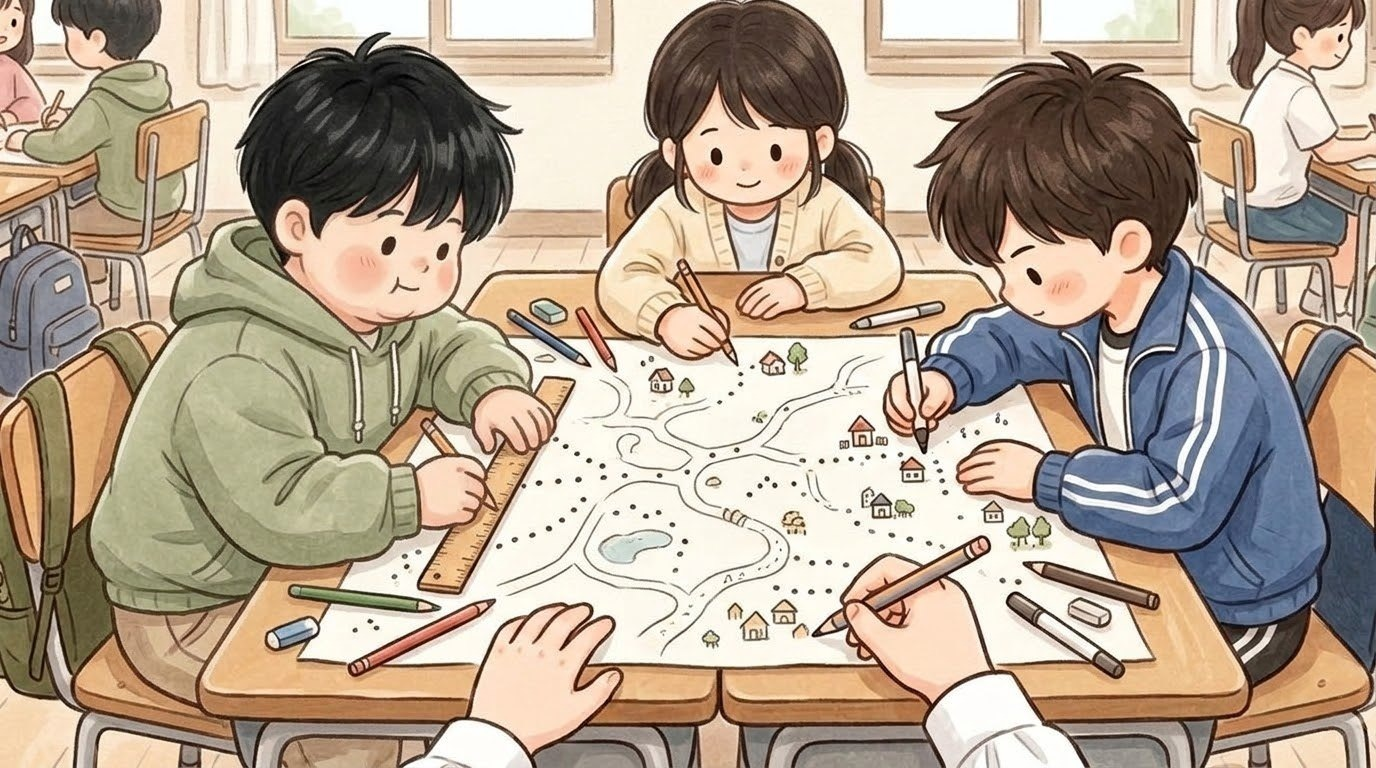
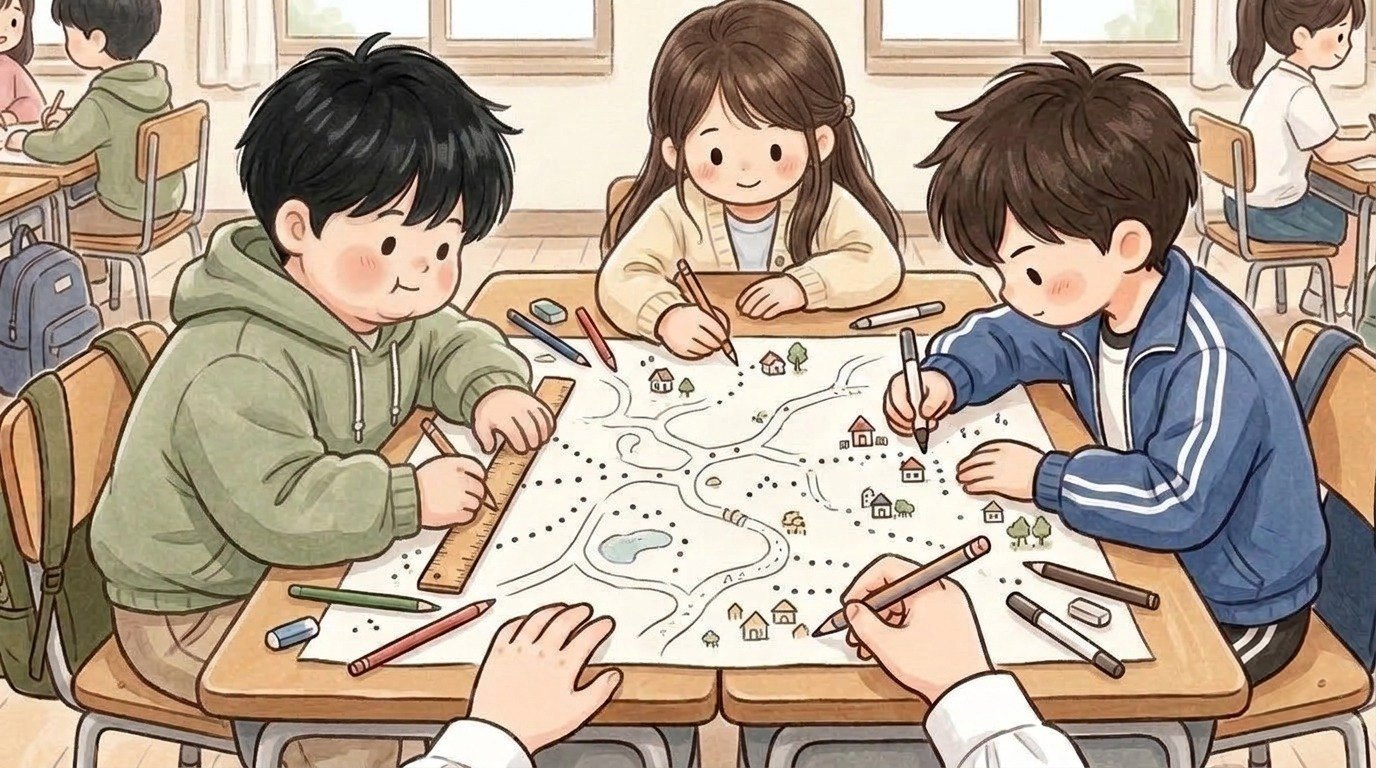
Siwoo, AI review days 8-15: the cicada shell is in the box (meeting 9 A), Junho's jacket is his blue tracksuit and Haeun has her long tied hair and cream cardigan (meeting 10), Siwoo by the pull-up bars shows when the line says so (meeting 11), the whistle lies under the bars and is bigger, the tiss

Changed region(s): [[0.4375, 0.0, 0.6562, 0.375], [0.25, 0.8438, 0.2812, 0.875]]

diff --git a/index.html b/index.html
@@ -119,14 +119,14 @@ body,button{word-break:keep-all;overflow-wrap:break-word}
 <div id="fader"></div>
 <script>
 // same address, newest version: if the page this phone has kept is older than the one online, fetch the new one and reopen
-const BUILD='1107150117';
+const BUILD='1107150450';
 try{fetch(location.pathname,{cache:'no-store'}).then(r=>r.text()).then(t=>{const m=t.match(/const BUILD='(\d+)'/);if(m&&m[1]!==BUILD&&sessionStorage.getItem('upd')!==m[1]){sessionStorage.setItem('upd',m[1]);fetch(location.pathname,{cache:'reload'}).then(()=>location.reload())}}).catch(()=>{})}catch(e){}
 </script>
-<script src="i18n.js?v=1107150117"></script>
-<script src="i18n_prologue_v2.js?v=1107150117"></script>
-<script src="day2/i18n_engine.js?v=1107150117"></script>
-<script src="day2/data.js?v=1107150117"></script>
-<script src="day3/data.js?v=1107150117"></script>
+<script src="i18n.js?v=1107150450"></script>
+<script src="i18n_prologue_v2.js?v=1107150450"></script>
+<script src="day2/i18n_engine.js?v=1107150450"></script>
+<script src="day2/data.js?v=1107150450"></script>
+<script src="day3/data.js?v=1107150450"></script>
 <script>
 // ---------- data ----------
 const MW=1672,MH=941,KID=180;
@@ -569,35 +569,35 @@ function pickHero(){const m=document.getElementById('modal'),c=document.getEleme
  c.innerHTML=`<h2>${tr('전학생 반장되기')}</h2><p>${tr('한국말이 아직 서툰 전학생,<br>반장 선거에 나가다.')}</p><p style="margin-top:14px">${tr('누구로 할까요?')}</p>${(()=>{const s=loadSave();return s&&s.day>=2&&s.mode===UI+'-'+LANG?`<p><button class="big" id="cont">${tr('{n}일차부터 이어 하기').replace('{n}',s.day)}</button></p>`:''})()}<div class="pick heroes"><button data-h="hero_f"><img src="faces/hero_f_smile.jpg" alt="여자 주인공">${heroName(1)}</button><button data-h="hero_m"><img src="faces/hero_m_smile.jpg" alt="남자 주인공">${heroName(0)}</button></div>`;
  m.classList.add('on');{const cb=document.getElementById('cont');if(cb)cb.onclick=()=>{const s=loadSave();HERO=s.hero;Object.assign(HEART,s.heart||{});(s.found||[]).forEach(k=>FOUND.add(k));HEART_D1={...HEART};chime();(typeof contGame==='function'?contGame(s):startDay(Math.min(s.day,Object.keys(window.D3||{}).length?3:2)))}}c.querySelectorAll('.pick button').forEach(b=>b.onclick=()=>{HERO=b.dataset.h;m.classList.remove('on');chime();bgm('day');load('home_am');say([['nar','','이사 온 다음 날 아침. 아직 풀지 못한 상자들이 쌓여 있다.'],['think','sad','(오늘부터 새 학교야. 여기 말도 아직 서툰데…….)'],['think','smile','({m}한테 인사하고 학교 가야지.)']],morning)})}
 </script>
-<script src="day2/engine.js?v=1107150117"></script>
-<script src="day2/ep_minho.js?v=1107150117"></script>
-<script src="day2/meet.js?v=1107150117"></script>
-<script src="day2/ep_sua.js?v=1107150117"></script>
-<script src="day2/ep_hangyeol.js?v=1107150117"></script>
-<script src="day2/ep_siwoo.js?v=1107150117"></script>
-<script src="day2/ep_haram.js?v=1107150117"></script>
-<script src="day2/ep_jiho.js?v=1107150117"></script>
-<script src="day2/ep_hyeeun.js?v=1107150117"></script>
-<script src="day2/ep_haneul.js?v=1107150117"></script>
-<script src="day2/ep_junho.js?v=1107150117"></script>
-<script src="day2/ep_yuna.js?v=1107150117"></script>
-<script src="day2/ep_yena.js?v=1107150117"></script>
-<script src="day2/ep_haeun.js?v=1107150117"></script>
-<script src="day2/ep_youngmin.js?v=1107150117"></script>
-<script src="day2/ep_seah.js?v=1107150117"></script>
-<script src="day2/ep_jihoon.js?v=1107150117"></script>
-<script src="words_ja_ru.js?v=1107150117"></script>
-<script src="day2/mybag.js?v=1107150117"></script>
-<script src="day2/wordpics.js?v=1107150117"></script>
-<script src="day2/spots.js?v=1107150117"></script>
-<script src="day2/textfit.js?v=1107150117"></script>
-<script src="day2/tester.js?v=1107150117"></script>
-<script src="day2/ux.js?v=1107150117"></script>
-<script src="day2/tapword.js?v=1107150117"></script>
-<script src="day2/review.js?v=1107150117"></script>
-<script src="day2/plane.js?v=1107150117"></script>
-<script src="day2/ep_ending.js?v=1107150117"></script>
-<script src="day2/ending.js?v=1107150117"></script>
+<script src="day2/engine.js?v=1107150450"></script>
+<script src="day2/ep_minho.js?v=1107150450"></script>
+<script src="day2/meet.js?v=1107150450"></script>
+<script src="day2/ep_sua.js?v=1107150450"></script>
+<script src="day2/ep_hangyeol.js?v=1107150450"></script>
+<script src="day2/ep_siwoo.js?v=1107150450"></script>
+<script src="day2/ep_haram.js?v=1107150450"></script>
+<script src="day2/ep_jiho.js?v=1107150450"></script>
+<script src="day2/ep_hyeeun.js?v=1107150450"></script>
+<script src="day2/ep_haneul.js?v=1107150450"></script>
+<script src="day2/ep_junho.js?v=1107150450"></script>
+<script src="day2/ep_yuna.js?v=1107150450"></script>
+<script src="day2/ep_yena.js?v=1107150450"></script>
+<script src="day2/ep_haeun.js?v=1107150450"></script>
+<script src="day2/ep_youngmin.js?v=1107150450"></script>
+<script src="day2/ep_seah.js?v=1107150450"></script>
+<script src="day2/ep_jihoon.js?v=1107150450"></script>
+<script src="words_ja_ru.js?v=1107150450"></script>
+<script src="day2/mybag.js?v=1107150450"></script>
+<script src="day2/wordpics.js?v=1107150450"></script>
+<script src="day2/spots.js?v=1107150450"></script>
+<script src="day2/textfit.js?v=1107150450"></script>
+<script src="day2/tester.js?v=1107150450"></script>
+<script src="day2/ux.js?v=1107150450"></script>
+<script src="day2/tapword.js?v=1107150450"></script>
+<script src="day2/review.js?v=1107150450"></script>
+<script src="day2/plane.js?v=1107150450"></script>
+<script src="day2/ep_ending.js?v=1107150450"></script>
+<script src="day2/ending.js?v=1107150450"></script>
 <script>
 // the goal shows big for a few seconds, then folds into a small pill (tap it to open it again)
 {const g=document.getElementById('goal');let t=null;const big=()=>{g.classList.remove('mini');clearTimeout(t);t=setTimeout(()=>g.classList.add('mini'),4000)};

diff --git a/day2/wordpics.js b/day2/wordpics.js
@@ -7,6 +7,7 @@
 // so a scene can name its picture before it is drawn (list: 검수/다시그릴목록_1105.md 「F」).
 const WORDPIC={
  minho_03:{cat:'cat_yellow'},hangyeol_10:{magnet:'magnet_board'},
+ siwoo_08:{mirror:'mirror_wall'},
  hyeeun_05:{box:'milk_crate'},hyeeun_08:{box:'milk_crate'},hyeeun_07:{locker:'locker_grid'},minho_12:{box:'milk_crate'},minho_vote:{box:'ballot_box'},
  haram_09:{card:'card_greeting'},seah_08:{card:'cards_play'},
  hangyeol_08:{umbrella:'umbrella_flower'},minho_08:{umbrella:'umbrella_broken'},
@@ -27,7 +28,7 @@ const WORDPIC={
  hangyeol_01:{thread:'thread_floss'},hangyeol_12:{thread:'thread_floss'}};
 // which of those pictures are really there (a list, not a network probe: a missing file would show as a page error).
 // When a new picture from list F is added, put its name here (items = cut-out .png, cards = card .jpg).
-const PIC_ITEM=new Set(['photo_grandma','locker_grid','stairs_down','magnet_board', 'cat_yellow', 'ballot_box', 'cards_play', 'glue_stick', 'milk_crate', 'paper_crumpled', 'water_bottle_pink', 'water_drops', 'glove_wheel', 'glove_goalie', 'wheel_chair', 'card_greeting', 'ball_dodge', 'ice_pack', 'umbrella_flower', 'umbrella_broken', 'eraser_cloud', 'milk_strawberry', 'bag_gym', 'water_tap', 'notebook_blue', 'notebook_gray', 'thread_floss']),PIC_CARD=new Set(['photo_grandma','stairs_down','magnet_board', 'cat_yellow', 'ballot_box', 'glue_stick', 'milk_crate', 'paper_crumpled', 'cards_play', 'water_bottle_pink', 'water_drops', 'photo_cam', 'glove_wheel', 'glove_goalie', 'wheel_chair', 'card_greeting', 'ball_dodge', 'ice_pack', 'umbrella_flower', 'umbrella_broken', 'eraser_cloud', 'milk_strawberry', 'bag_gym', 'water_tap', 'notebook_blue', 'notebook_gray', 'thread_floss']);
+const PIC_ITEM=new Set(['mirror_wall','photo_grandma','locker_grid','stairs_down','magnet_board', 'cat_yellow', 'ballot_box', 'cards_play', 'glue_stick', 'milk_crate', 'paper_crumpled', 'water_bottle_pink', 'water_drops', 'glove_wheel', 'glove_goalie', 'wheel_chair', 'card_greeting', 'ball_dodge', 'ice_pack', 'umbrella_flower', 'umbrella_broken', 'eraser_cloud', 'milk_strawberry', 'bag_gym', 'water_tap', 'notebook_blue', 'notebook_gray', 'thread_floss']),PIC_CARD=new Set(['mirror_wall','photo_grandma','stairs_down','magnet_board', 'cat_yellow', 'ballot_box', 'glue_stick', 'milk_crate', 'paper_crumpled', 'cards_play', 'water_bottle_pink', 'water_drops', 'photo_cam', 'glove_wheel', 'glove_goalie', 'wheel_chair', 'card_greeting', 'ball_dodge', 'ice_pack', 'umbrella_flower', 'umbrella_broken', 'eraser_cloud', 'milk_strawberry', 'bag_gym', 'water_tap', 'notebook_blue', 'notebook_gray', 'thread_floss']);
 let LAYPIC={},LAYPIC_EP=null;const DAYPIC={};
 function picOf(k){if(typeof SCENE_EP==='undefined'||!SCENE_EP)return k;if(LAYPIC_EP!==SCENE_EP){LAYPIC={};LAYPIC_EP=SCENE_EP}
  const w=(WORDPIC[SCENE_EP.scene]||{})[k],v=(w&&PIC_ITEM.has(w)&&w)||LAYPIC[k];if(!v||v===k)return k;DAYPIC[k]=v;PIC_ITEM.add(v);return v}// a laid picture is there (it is on the map)

diff --git a/day2/ep_siwoo.js b/day2/ep_siwoo.js
@@ -88,7 +88,7 @@ EP.siwoo=[
    ['me','laugh','여섯!'],['siwoo','smile','여섯. 모든 곤충.'],['nar','','하은이가 고개를 갸웃했다.'],['haeun','surprised','시우 화난 거 아니었어?'],['me','smile','아니. 정확한 거 좋아하는 거야.']]}],
  post:[
   {only:['B'],lines:[['nar','','나는 접었던 {@picture}을 다시 폈다.']]},
-  {k:'eraser',goal:'「{x}」로 다리 지우기'},
+  {k:'eraser',goal:'「{x}」로 다리 지우기',bag:['eraser','pencil','ruler','pcase','notebook']},
   {pic:'siwoo_02a'},
   ['nar','','모둠 {@picture}이 완성됐다. 내 나비는 다리가 여섯 개였다.'],
   ['nar','','활동이 끝나고 시우가 자기 {@desk}으로 돌아가다가 멈췄다. 나를 보지 않고 말했다.'],
@@ -391,7 +391,7 @@ EP.siwoo=[
 
 // ■ Day 9 — 나비 손 (8)
 {title:'나비 손',scene:'siwoo_08',place:'class',at:[262,262],
- things:{class:[['handkerchief',440,328,36],['mirror',1560,600,64]]},
+ things:{class:[['handkerchief',440,328,36]]},
  pre:[
   {pic:'siwoo_08b'},
   ['nar','','쉬는 시간. 시우가 창가에서 이상한 말 사전을 정리하다가 새 낱말을 찾았는지 두 손을 빠르게 펄럭였다. 나비처럼.'],
@@ -433,7 +433,7 @@ EP.siwoo=[
   ['nar','','선생님: 「다 다르죠? 기쁠 때도, 긴장할 때도, 사람마다 몸이 하는 게 달라요. 다리를 떠는 사람도 있고, 머리카락을 꼬는 사람도 있고요.」'],
   ['nar','','선생님: 「남이 하는 걸 흉내 내서 웃으면, 그 사람은 그걸 숨기게 돼요. 그럼 그 사람은 기쁠 때 기쁜 걸 못 하겠죠? 그건 우리 반에서 안 하기로 해요.」'],
   ['nar','','선생님은 시우 쪽을 보지 않으셨다. 아이들 몇이 자기 다리를 내려다봤다. 다리를 떨고 있었다.'],
-  {k:'mirror',goal:'「{x}」 보기'},
+  {k:'mirror',goal:'「{x}」 보기',bag:['mirror','window','door','blackboard','clock']},// the wall mirror at the back of the room is not on the map (its back wall is off screen), so it is picked as a card (owner 11/07)
   {pic:'siwoo_08e'},
   ['nar','','교실 뒤 {@mirror}에 내 모습이 비쳤다. 손가락이 손톱을 만지고 있었다.'],
   ['think','surprised','(나도 긴장하면 손톱 만지는구나.)'],
